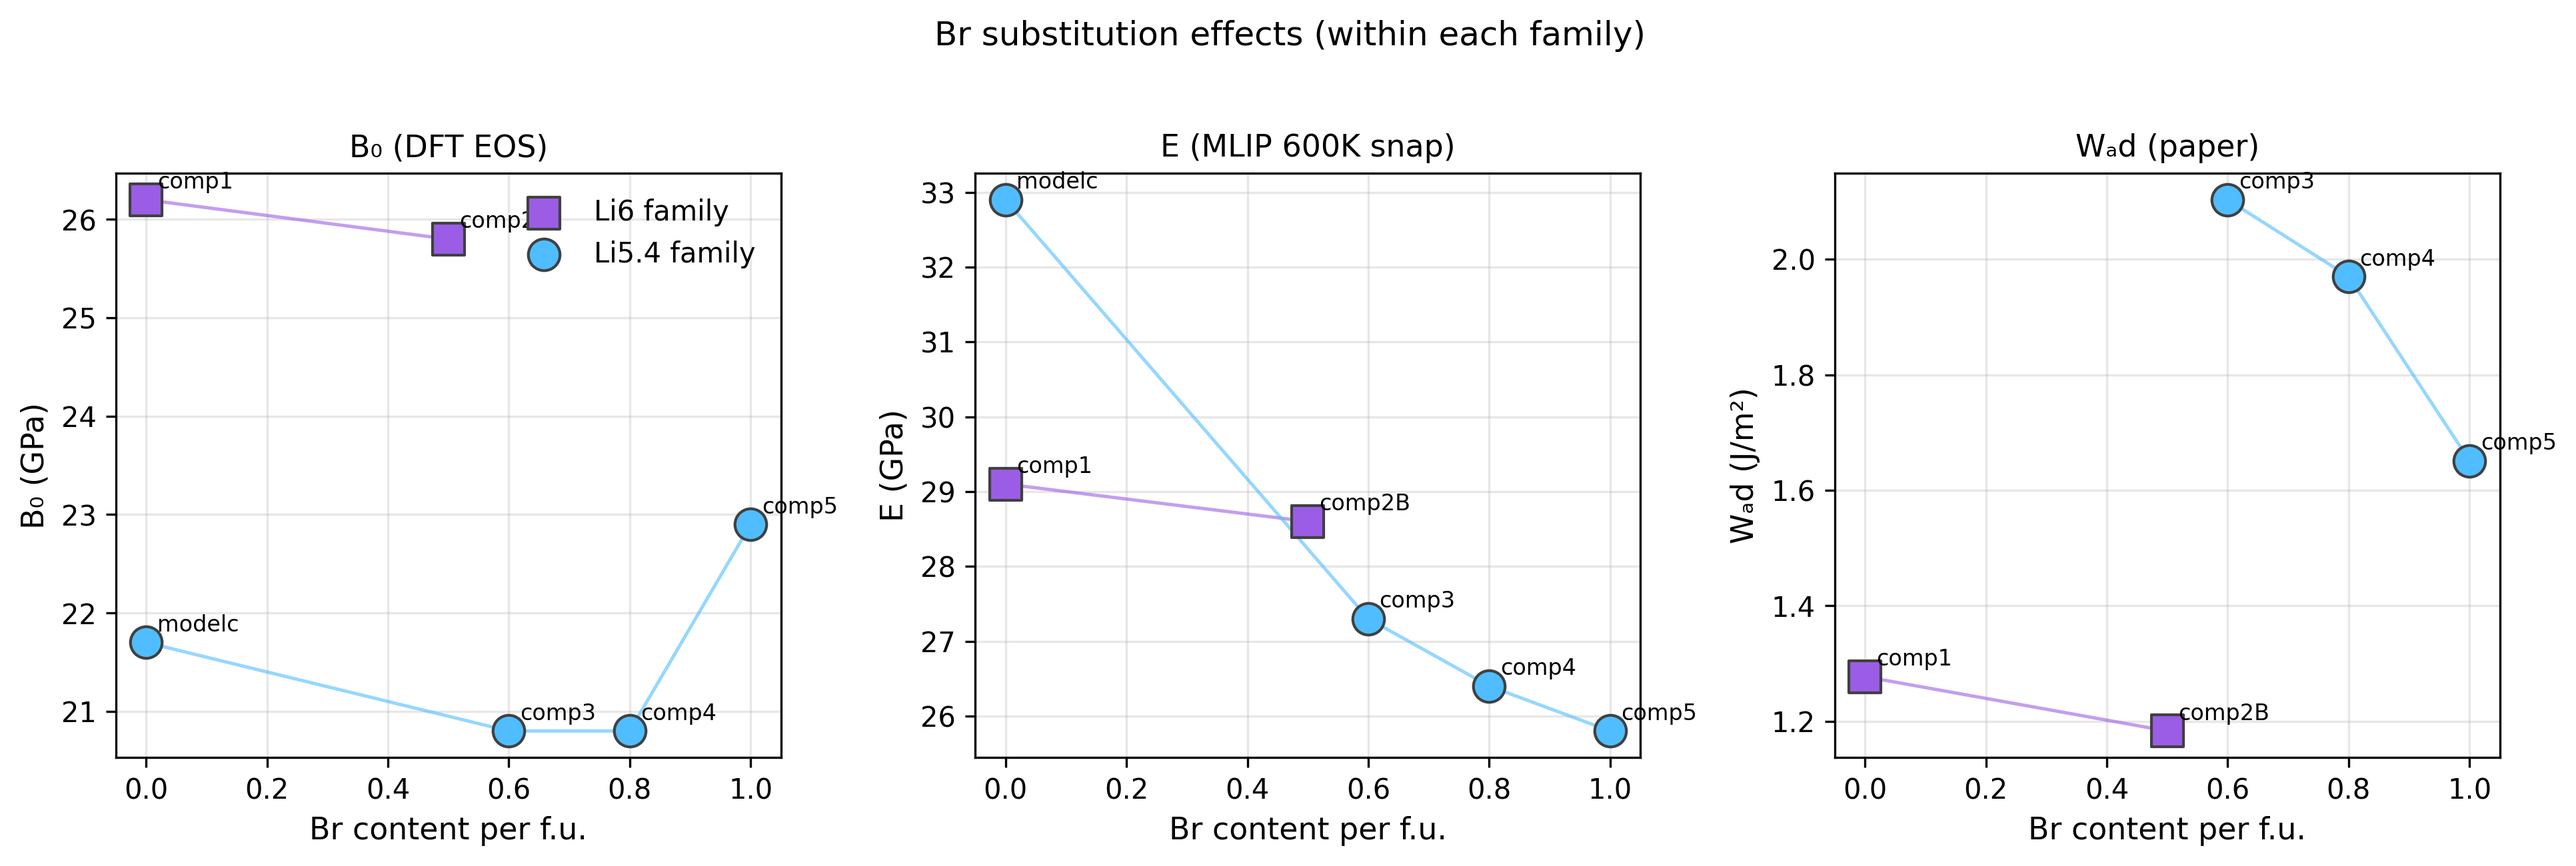
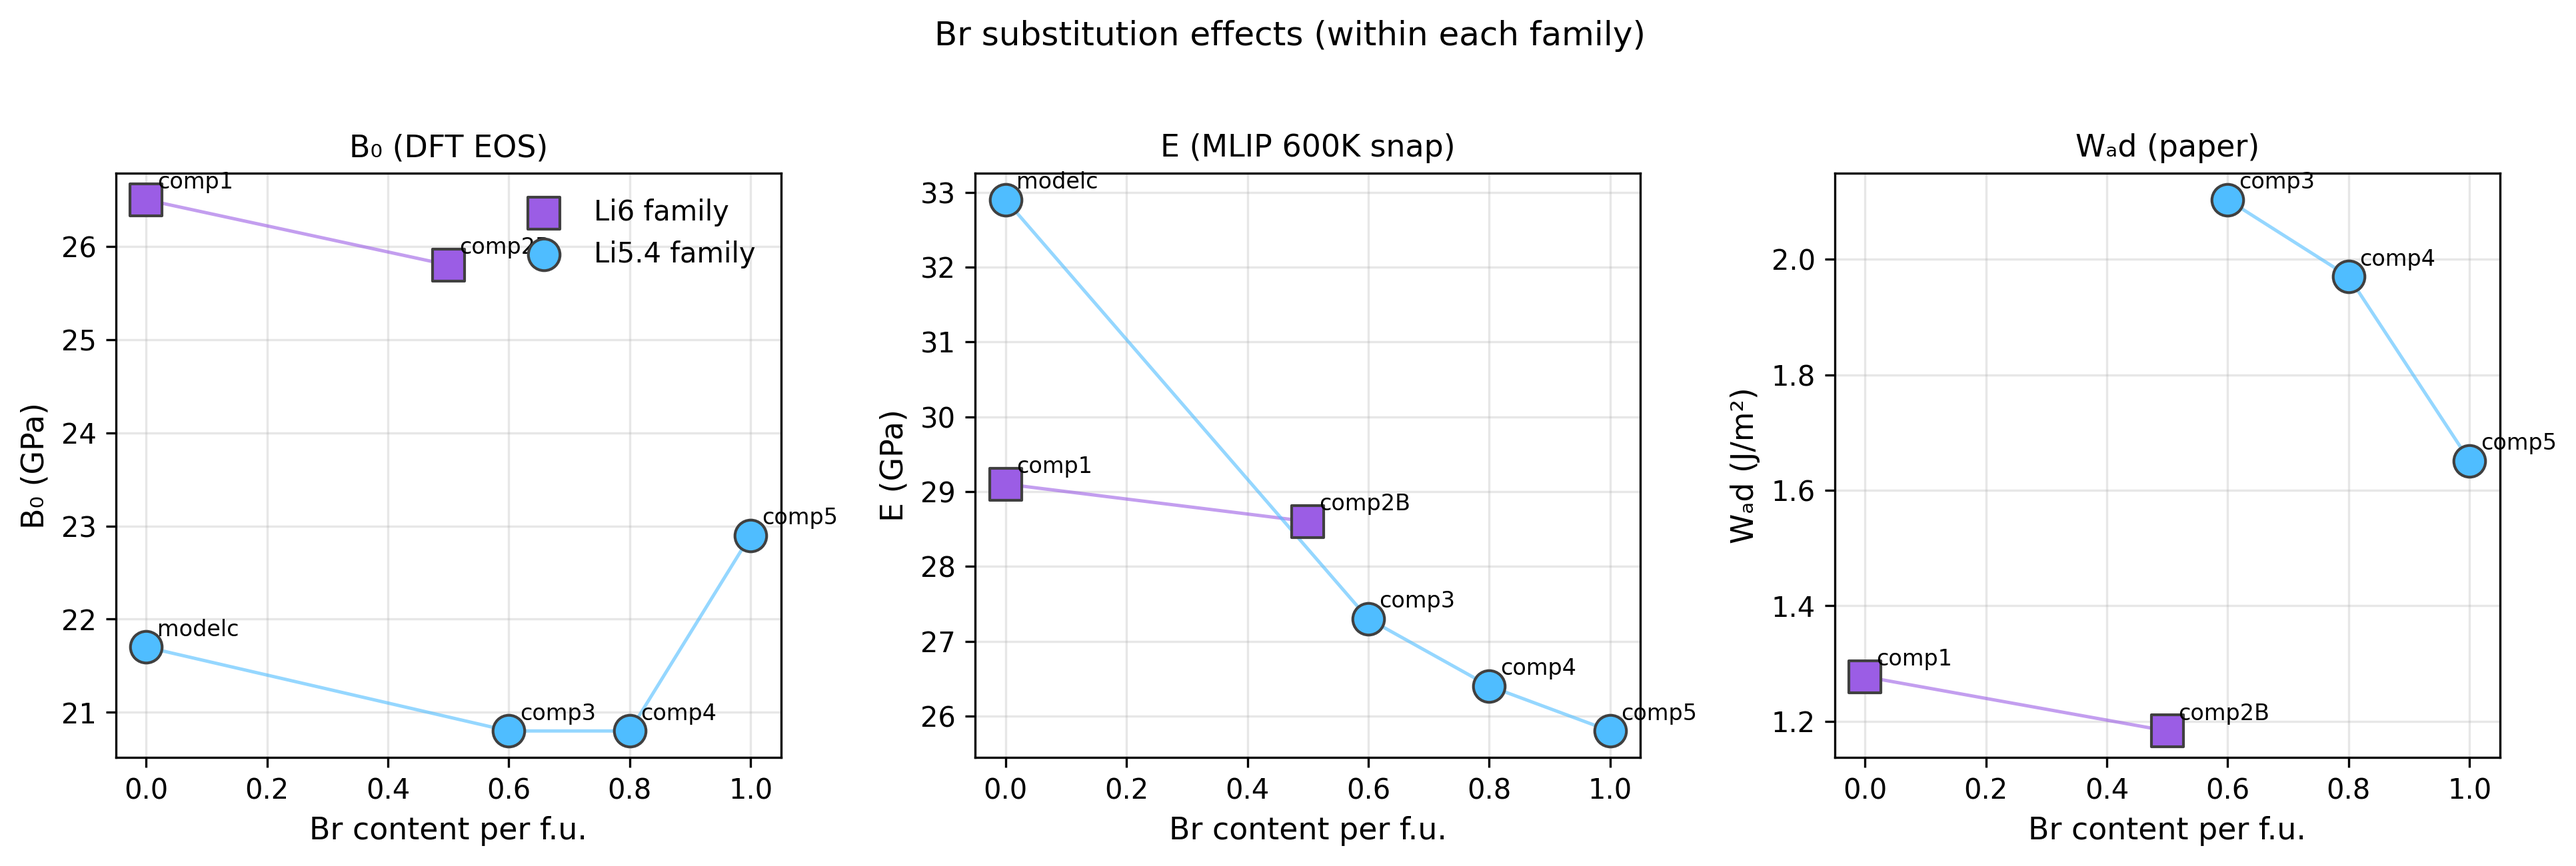
Update comp1 B0 to v2 pipeline value (26.5 GPa)
v2 = annealing champion + 11-point DFT EOS (R2=0.999998)
v1 = 26.2 (8 points, Rietveld Li) kept in text as reference only.
Regenerates master_summary.png and br_content_trend.png.

https://claude.ai/code/session_01XoCG1QzCaaxt52f3r1kJGK

diff --git a/tools/plot_master_summary.py b/tools/plot_master_summary.py
@@ -24,8 +24,10 @@ ORDER = ["comp3", "comp4", "comp5", "comp1", "comp2B"]
 COLORS = {"comp3": "#4FBDFF", "comp4": "#52B788", "comp5": "#F4A261",
           "comp1": "#9B5DE5", "comp2B": "#2A9D8F"}
 
-B0 = {"comp3": 20.8, "comp4": 20.8, "comp5": 22.9, "comp1": 26.2, "comp2B": 25.8,
+B0 = {"comp3": 20.8, "comp4": 20.8, "comp5": 22.9, "comp1": 26.5, "comp2B": 25.8,
       "modelc": 21.7}
+# comp1 = 26.5 from v2 pipeline (11 pts DFT, R2=0.999998, annealing champion)
+# v1 value = 26.2 (8 pts, Rietveld Li). v2 is paper value.
 E600 = {"comp3": (27.3, 0.4), "comp4": (26.4, 1.6), "comp5": (25.8, 0.8),
         "comp1": (29.1, 1.1), "comp2B": (28.6, 1.1), "modelc": (32.9, 0.9)}
 WAD_PAPER = {"comp3": (2.103, 0.245), "comp4": (1.970, 0.629),

diff --git a/tools/plot_br_content_trend.py b/tools/plot_br_content_trend.py
@@ -19,7 +19,7 @@ OUT.mkdir(exist_ok=True)
 # Per-composition Br count per f.u. (cubic: 4 fu; rhombo: 5 fu)
 DATA = {
     # id:      Br/fu   B0      E      Wad_paper  Wad_100s   family
-    "comp1":   (0.0,   26.2,   29.1,  1.277,     1.151,    "Li6"),
+    "comp1":   (0.0,   26.5,   29.1,  1.277,     1.151,    "Li6"),   # B0 v2 pipeline
     "comp2B":  (0.5,   25.8,   28.6,  1.183,     1.615,    "Li6"),
     "modelc":  (0.0,   21.7,   32.9,  None,      None,     "Li5.4"),
     "comp3":   (0.6,   20.8,   27.3,  2.103,     2.328,    "Li5.4"),
